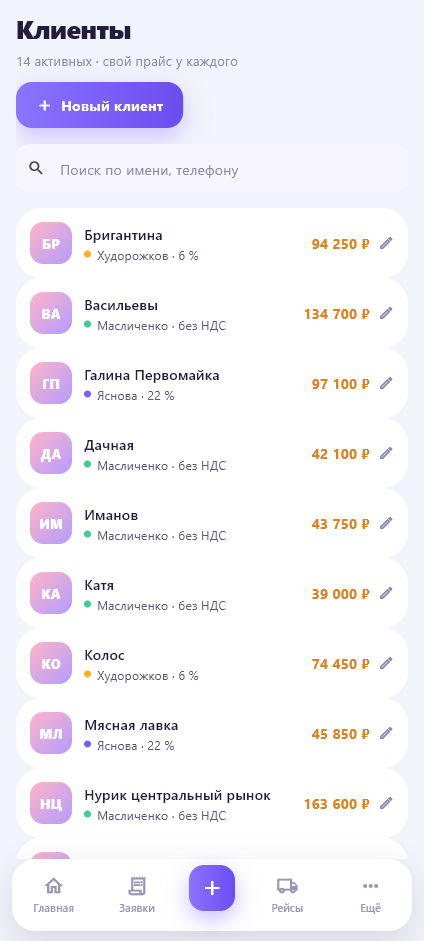
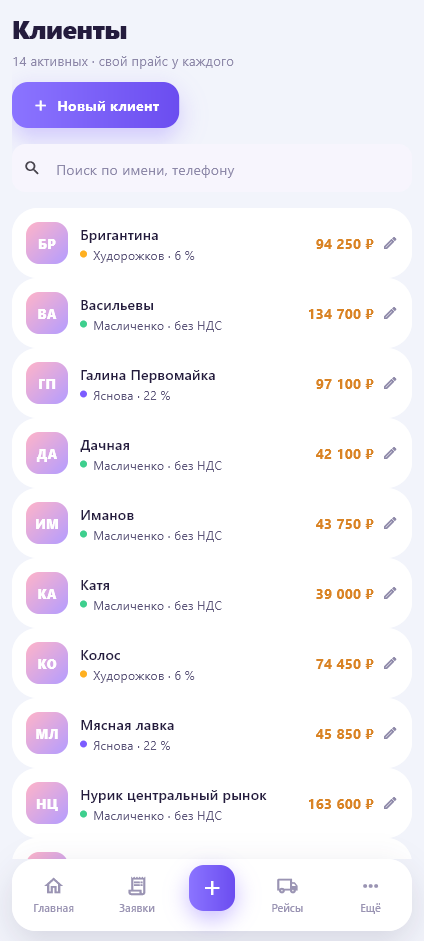
v0.3.0: mobile products cards, dashboard without chart, order gaps, clients in menu

diff --git a/README.md b/README.md
@@ -5,15 +5,17 @@
 
 ## Скачать и установить
 
-Версия 0.2.0 → **[Releases](https://github.com/GXWag/drevugol-55/releases/tag/v0.2.0)**
+Версия 0.3.0 → **[Releases](https://github.com/GXWag/drevugol-55/releases/tag/v0.3.0)**
 
 **Windows 11**
-1. Скачать `drevugol55-windows-0.2.0.zip` и распаковать в любую папку.
-2. Запустить `drevugol55.exe`. Данные хранятся в `%APPDATA%\com.drevugol\drevugol55`.
+1. Скачать `drevugol55-windows-0.3.0.zip` и распаковать в любую папку.
+2. Запустить `drevugol55.exe`.
 
 **Android**
-1. Скачать `drevugol55-0.2.0.apk` на телефон.
+1. Скачать `drevugol55-0.3.0.apk` на телефон.
 2. Разрешить установку из этого источника и установить.
+
+Как проверить версию: в приложении откройте **Настройки** — внизу написано «версия 0.3». Если там 0.1 или 0.2, установился старый файл.
 
 > Первый запуск создаёт демо-данные (клиенты, заявки, расходы), чтобы было видно, как всё работает.
 
@@ -67,6 +69,13 @@
 | Отчёты | Клиенты |
 |---|---|
 | ![Отчёты](shots/mobile/m-reports.png) | ![Клиенты](shots/mobile/m-clients.png) |
+
+## Что нового в 0.3.0
+
+- Товары на телефоне — карточками, текст больше не ломается по буквам.
+- Главная на телефоне: убран график, выбор месяца перенесён вправо вверх (вместо кнопки создания заявки), плитки выровнены и растянуты по ширине.
+- Заявки на телефоне: отступы между карточками, кнопка «Новая заявка» убрана (создание — «плюс» внизу).
+- В меню «Ещё» добавлены «Клиенты» — карточки и прайс редактируются.
 
 ## Что нового в 0.2.0
 
